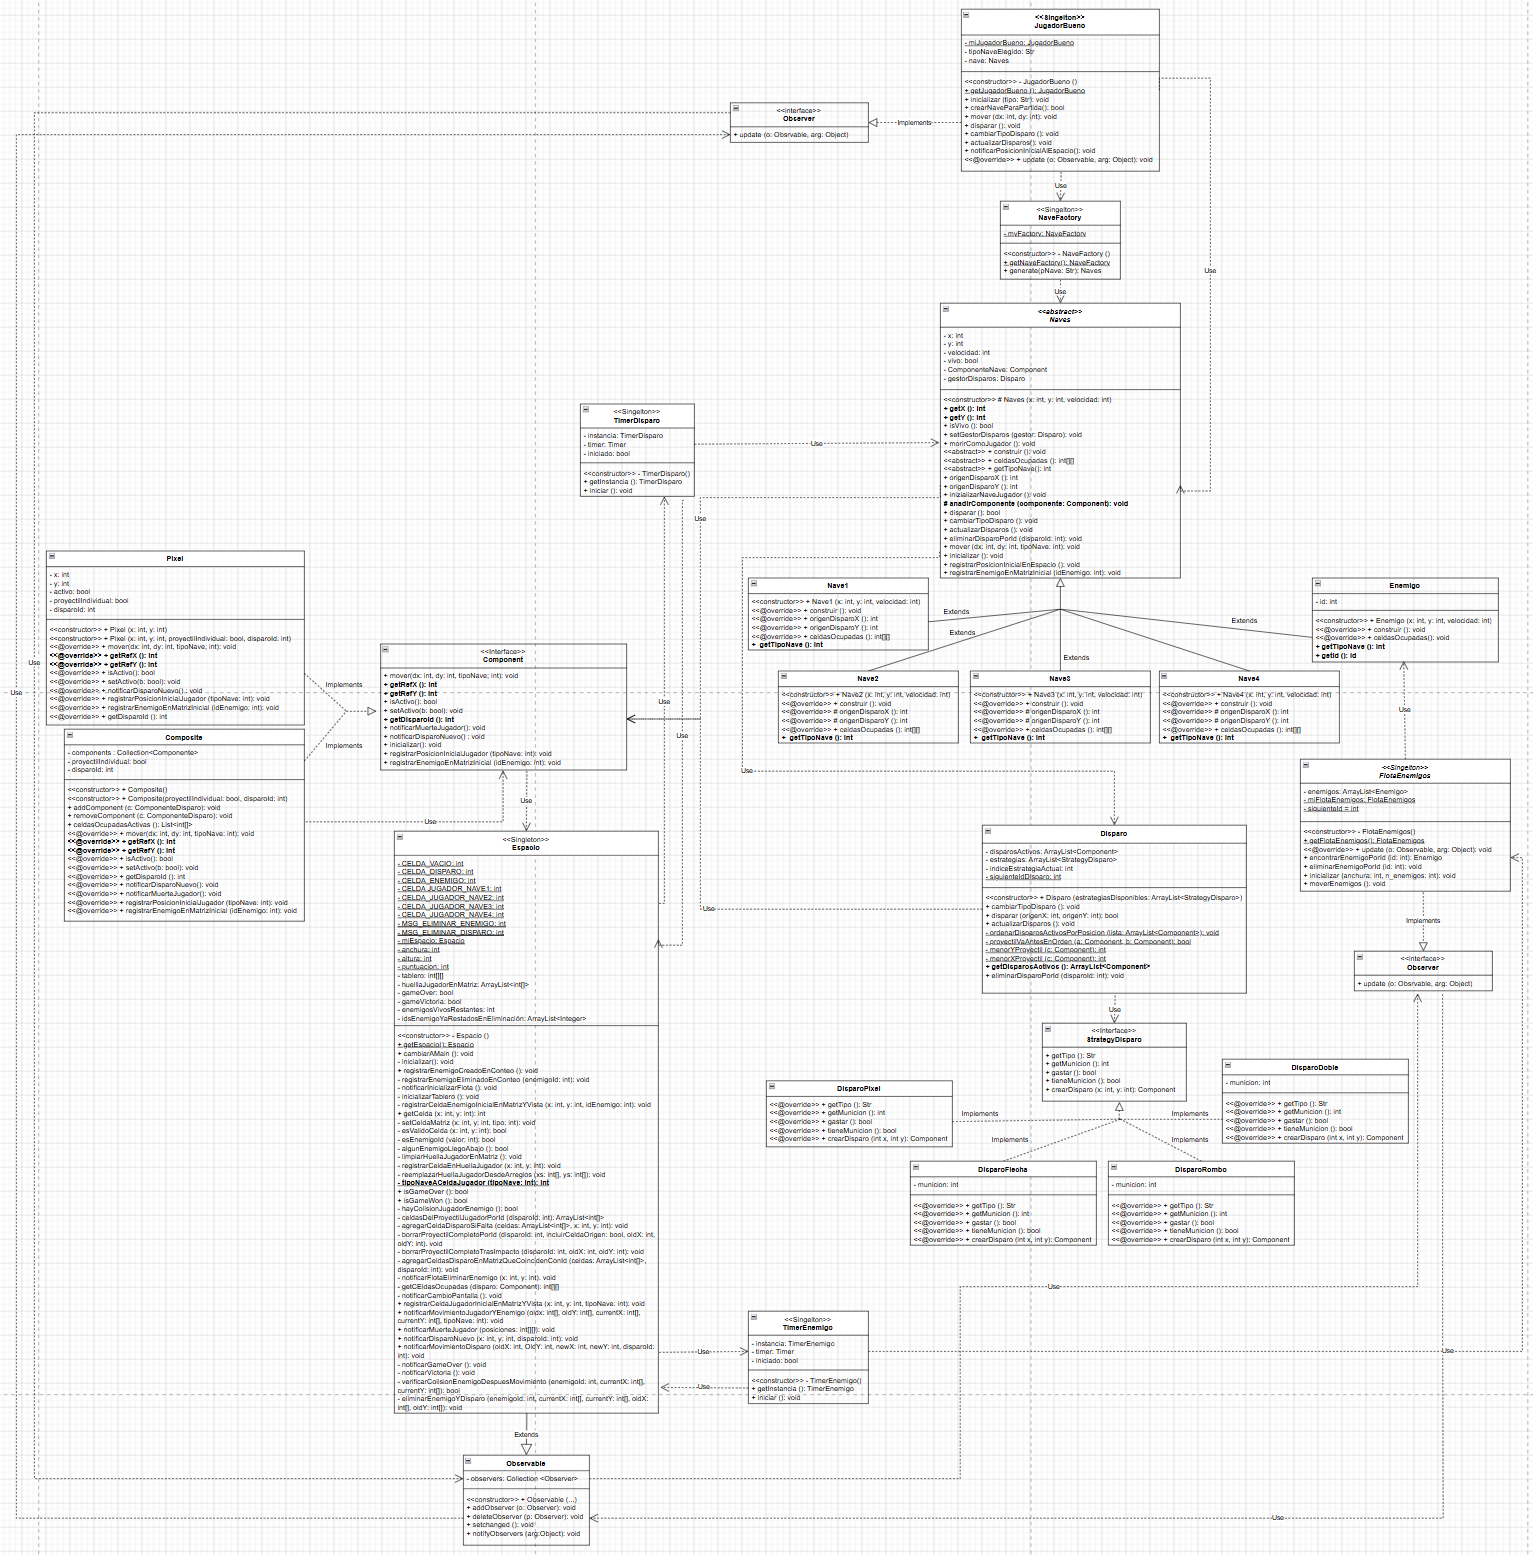
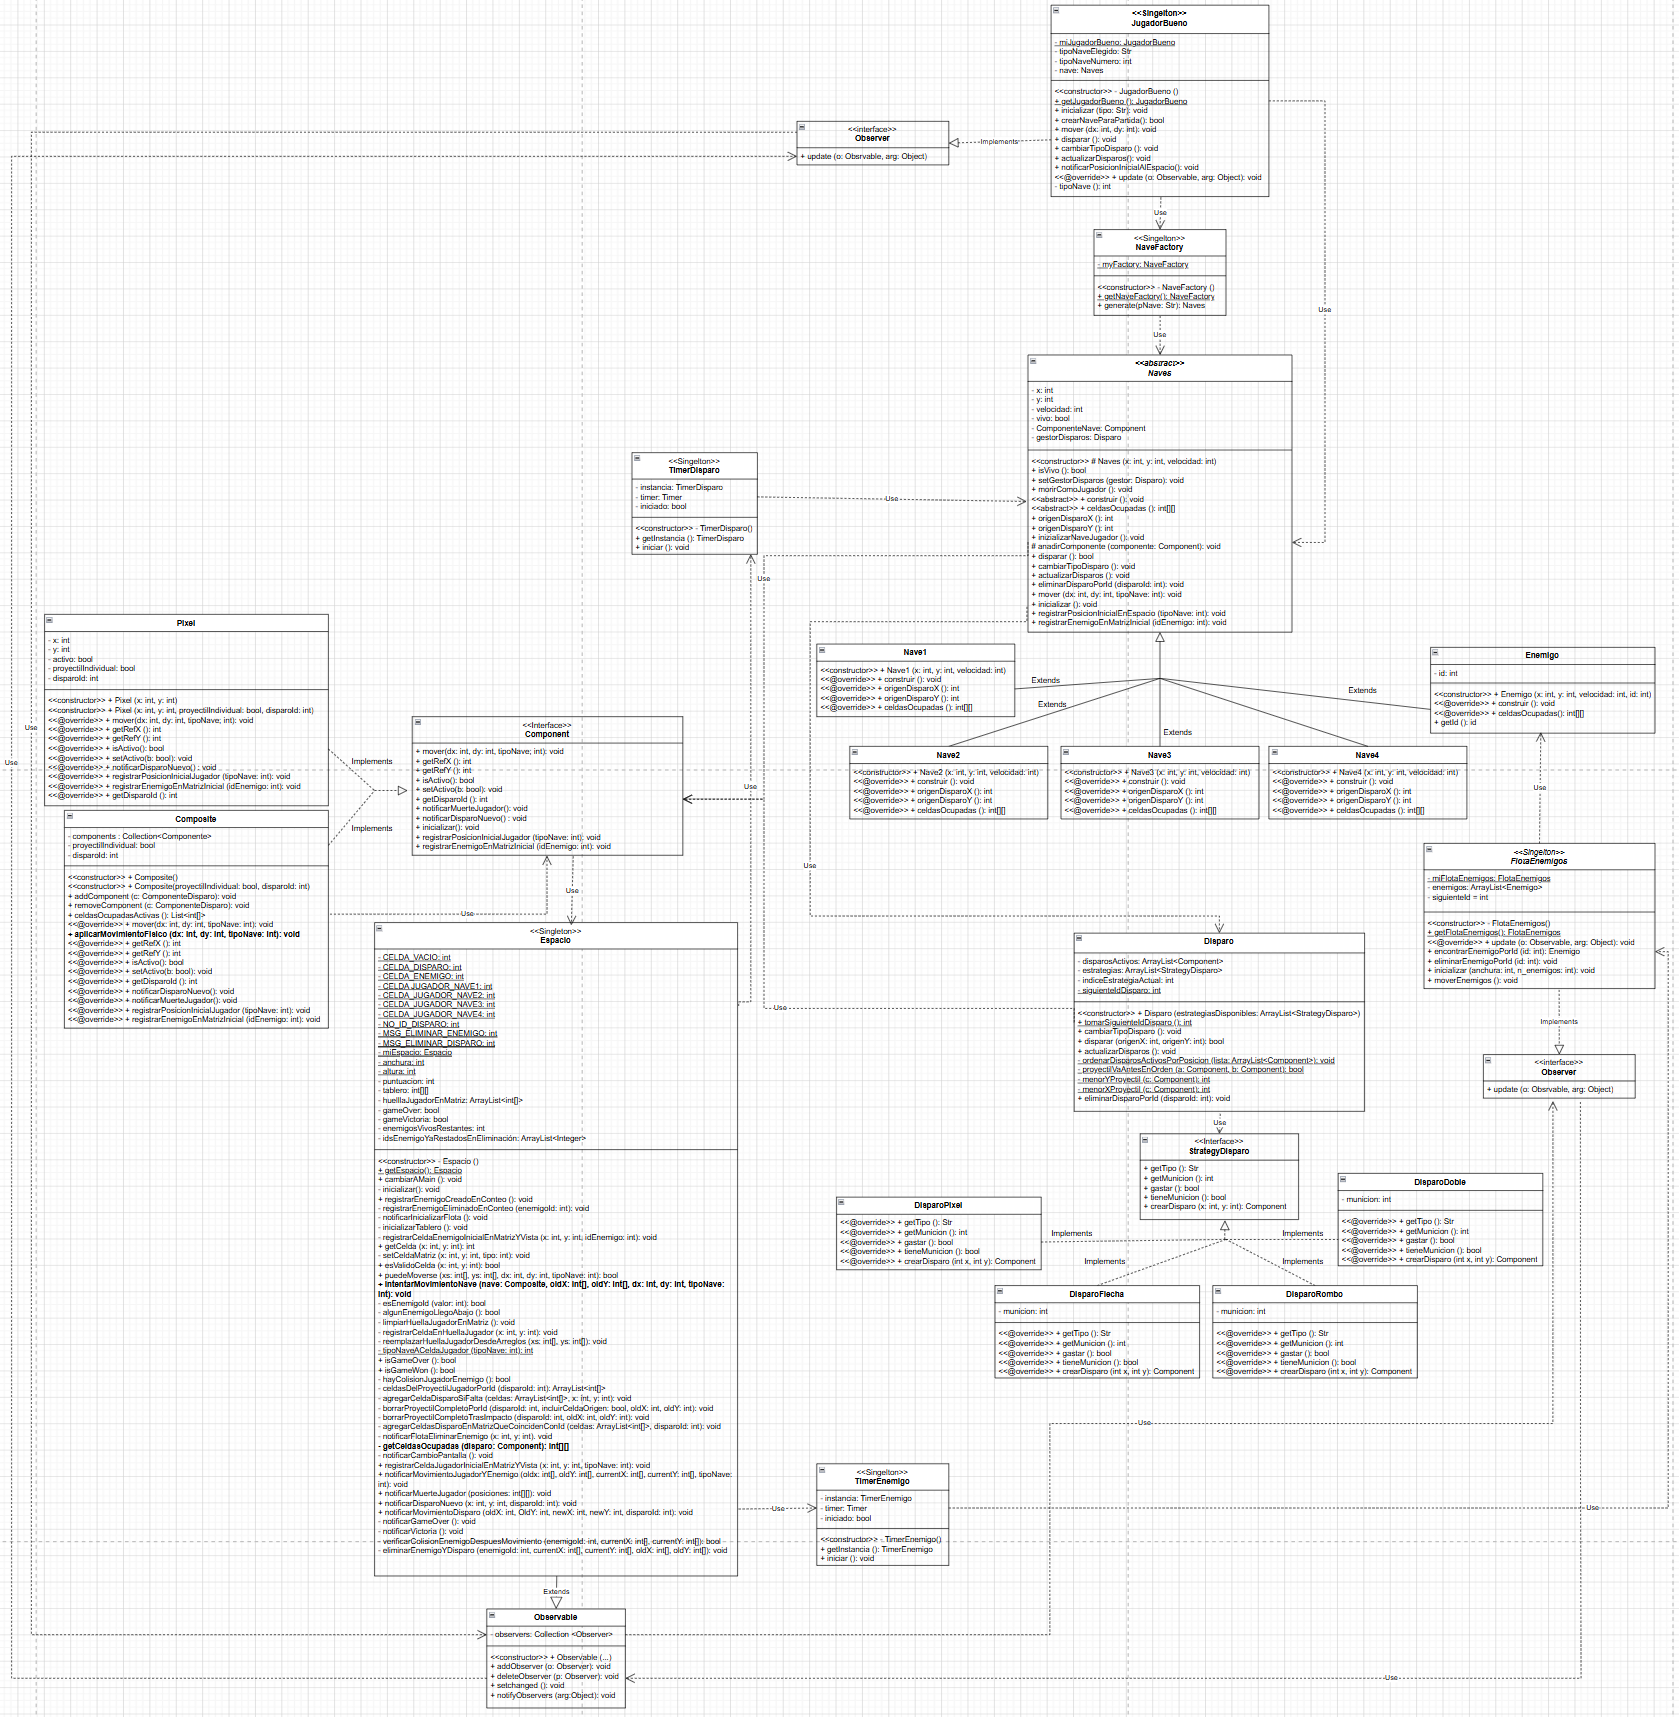
Cambios en DC y eliminacion de valores obsoletos en codigo

Changed region(s): [[0.0, 0.0, 1.0, 1.0], [0.9198, 0.8643, 0.9504, 0.8952], [0.0, 0.8952, 0.0307, 0.926]]

diff --git a/SpaceInvaders/src/model/TimerDisparo.java b/SpaceInvaders/src/model/TimerDisparo.java
@@ -20,10 +20,6 @@ public class TimerDisparo {
         timer = new Timer(50, new ActionListener() {
             @Override
             public void actionPerformed(ActionEvent e) {
-                // Verificar que el juego sigue activo antes de actualizar disparos
-                boolean gameOver = Espacio.getEspacio().isGameOver();
-                boolean gameWon = Espacio.getEspacio().isGameWon();
-                
                 JugadorBueno.getJugadorBueno().actualizarDisparos();
                 
             }

diff --git a/SpaceInvaders/src/model/TimerEnemigo.java b/SpaceInvaders/src/model/TimerEnemigo.java
@@ -20,9 +20,7 @@ public class TimerEnemigo {
         timer = new Timer(200, new ActionListener() {
             @Override
             public void actionPerformed(ActionEvent e) {
-                // Verificar que el juego sigue activo antes de mover enemigos
                 FlotaEnemigos.getFlotaEnemigos().moverEnemigos();
-                
             }
         });
     }
